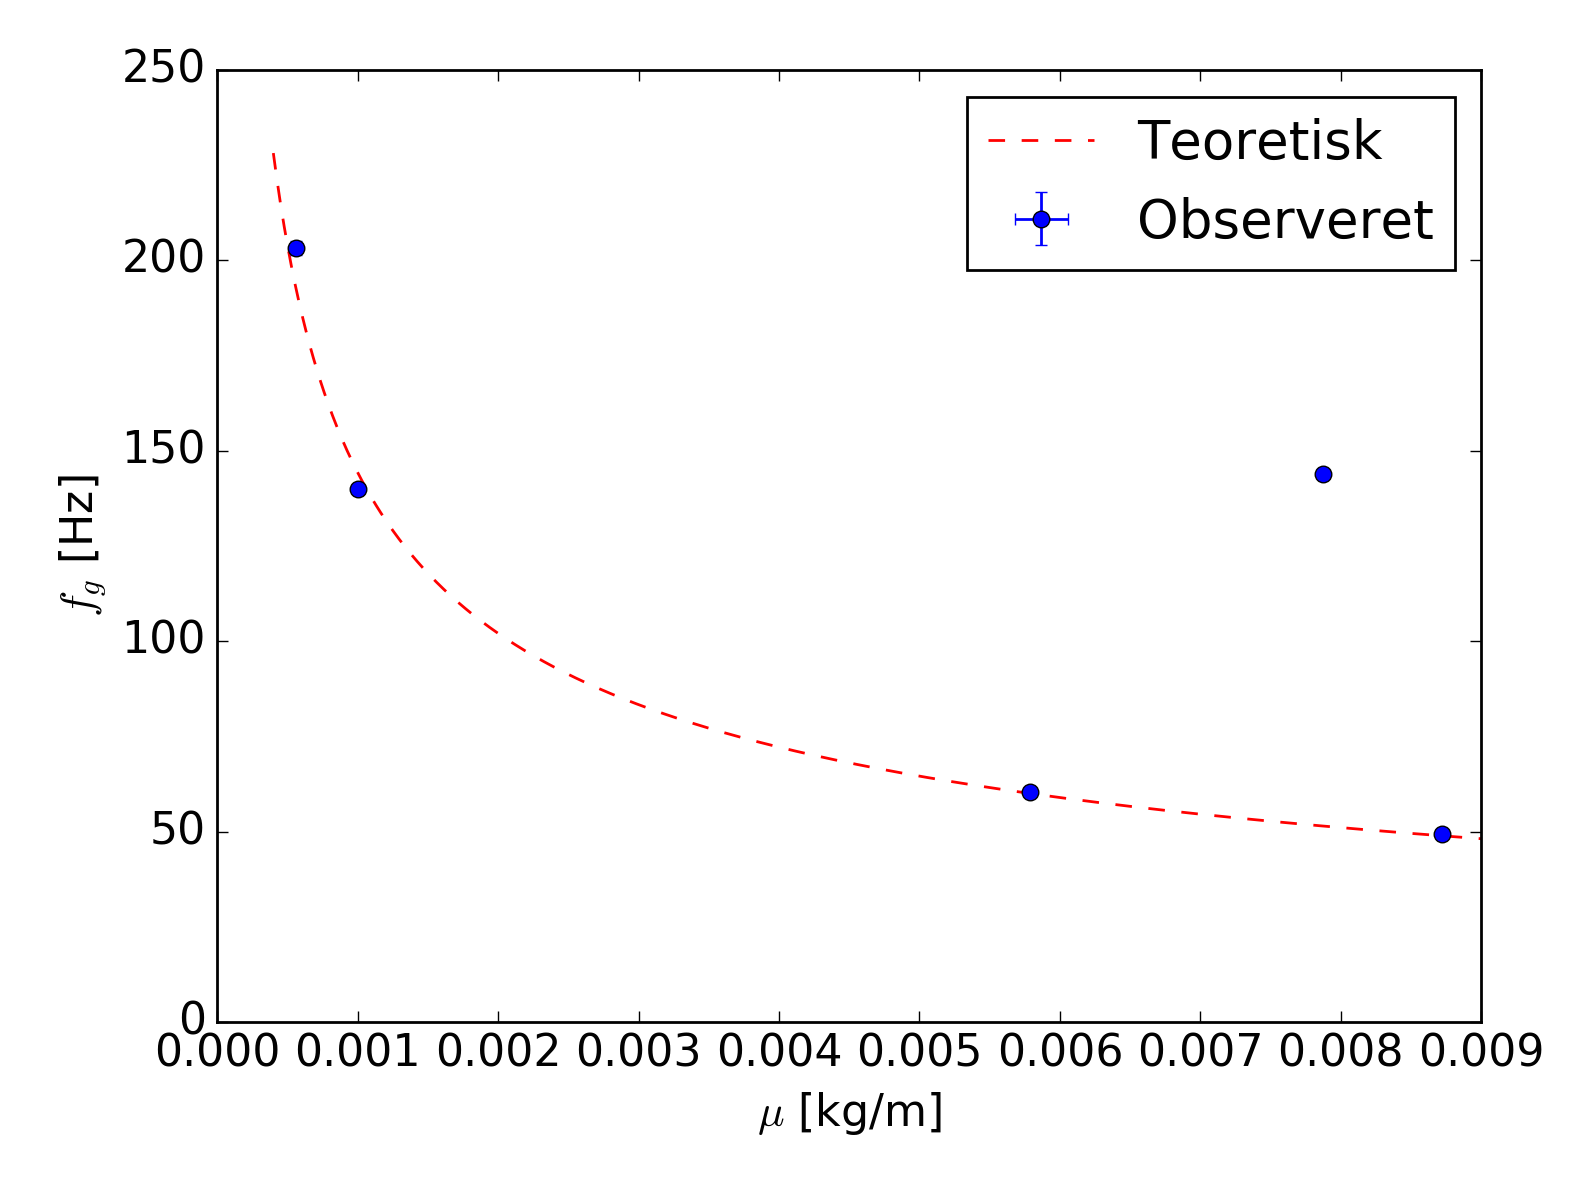
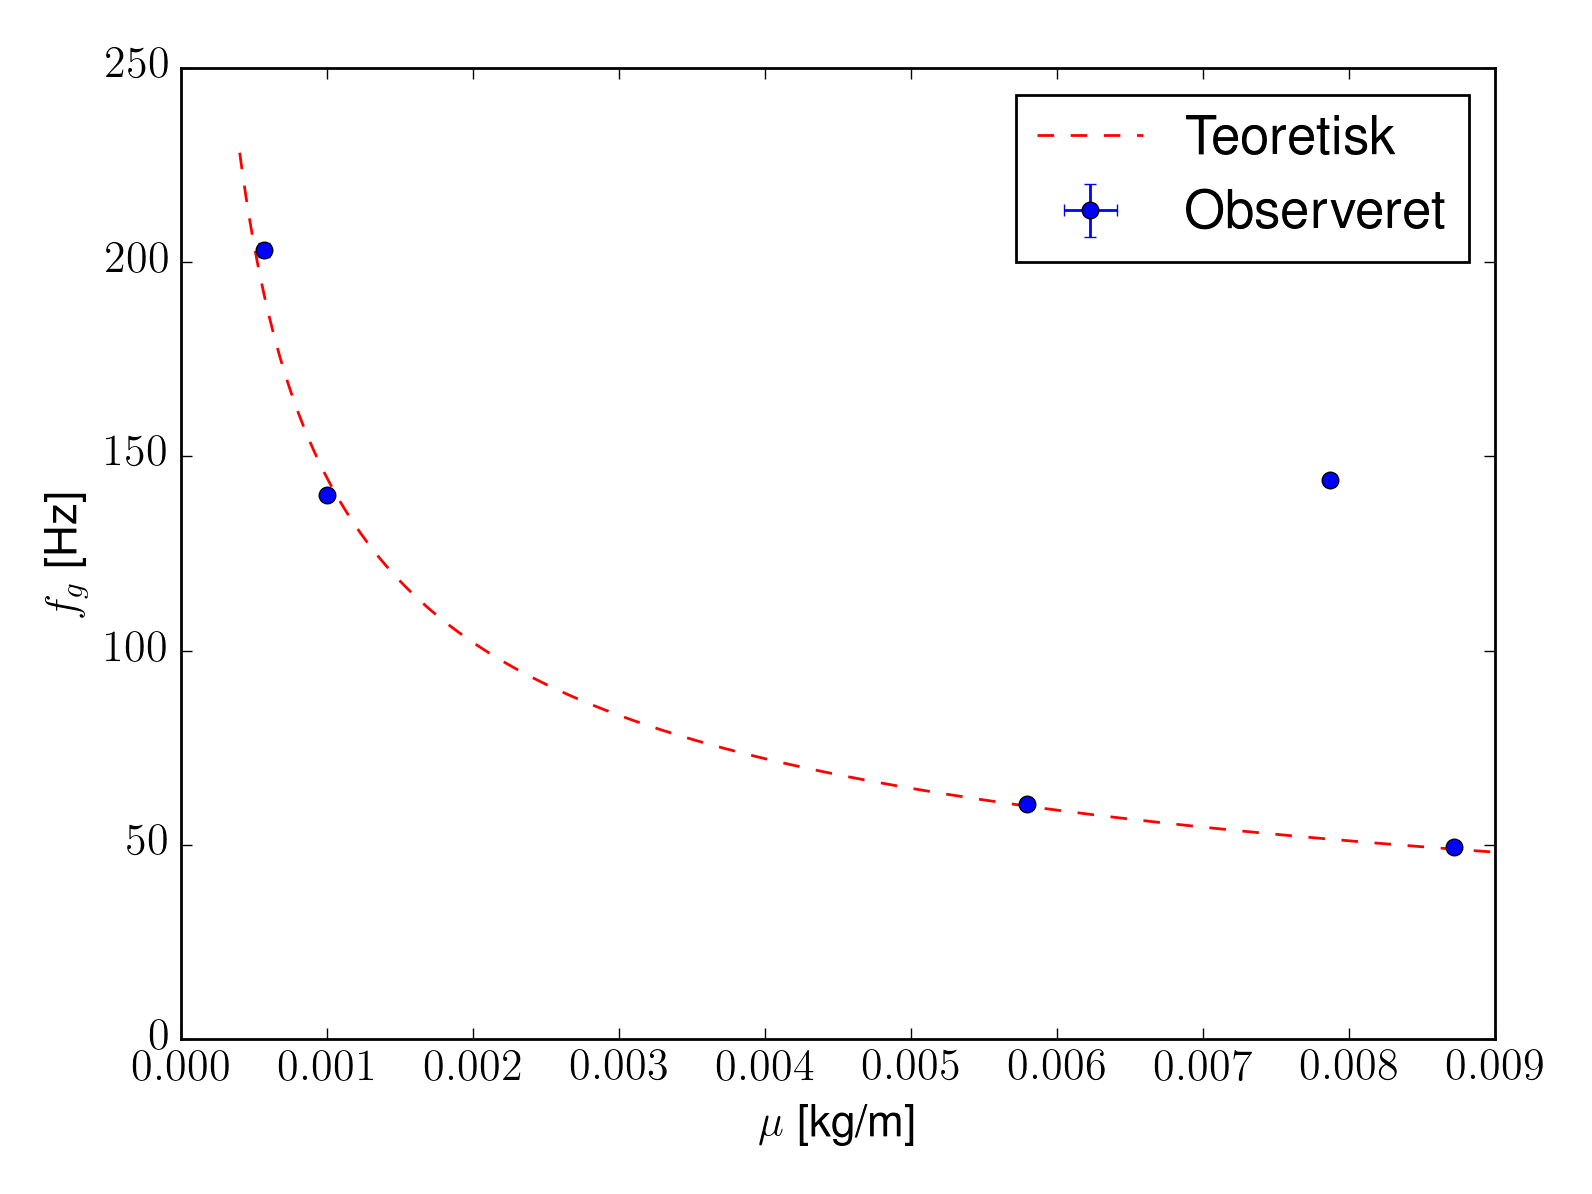
hej

diff --git a/rapport1/H_databehandling.py b/rapport1/H_databehandling.py
@@ -2,6 +2,8 @@ from scipy import optimize as opt
 import numpy as np
 import matplotlib.pyplot as plt
 plt.rcParams.update({'font.size': 16})
+plt.rc('text',usetex=True)
+
 numpoints = 1
 # %% Define funcion
 def grundFrekvens(F, u):
